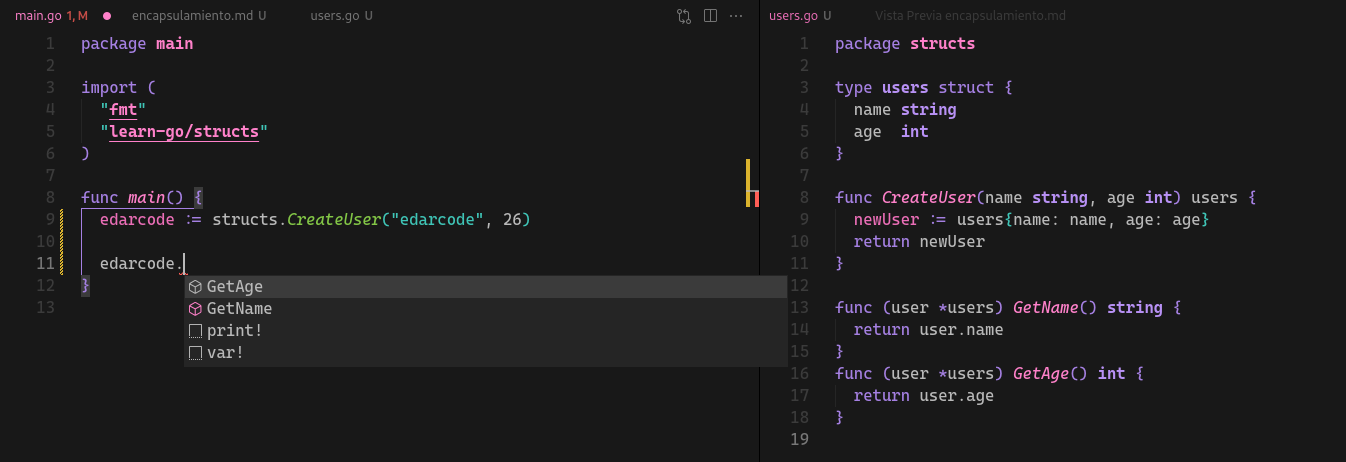
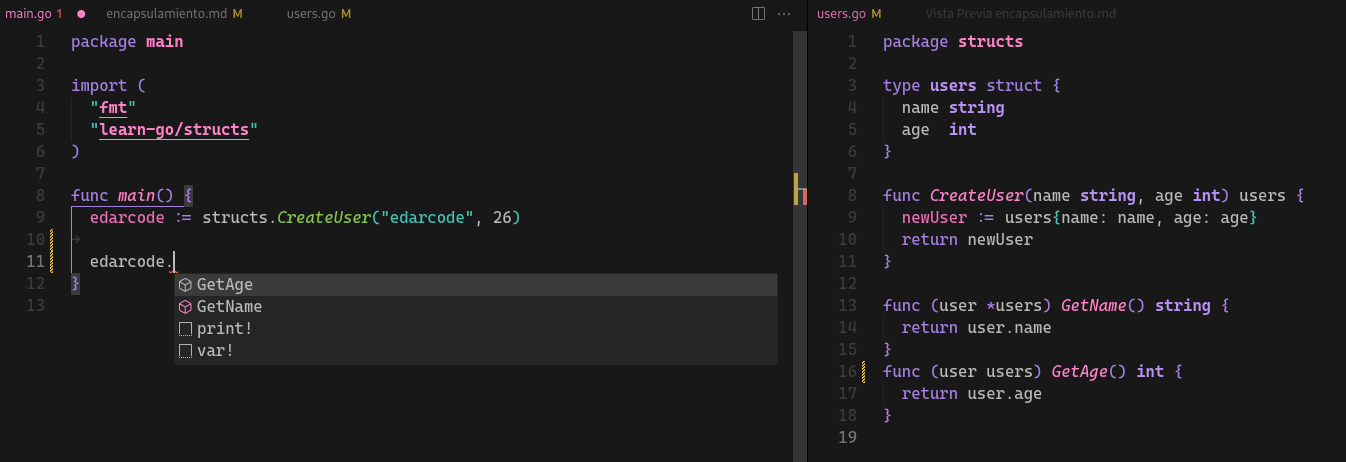
refactor encap...

diff --git a/structs/users.go b/structs/users.go
@@ -13,6 +13,6 @@ func CreateUser(name string, age int) users {
 func (user *users) GetName() string {
 	return user.name
 }
-func (user *users) GetAge() int {
+func (user users) GetAge() int {
 	return user.age
 }

diff --git a/doc/17-encapsulamiento/encapsulamiento.md b/doc/17-encapsulamiento/encapsulamiento.md
@@ -48,9 +48,11 @@ return user.age
 }
 ```
 
-Para consumir sería:
+Vista general:
 
 ![encapsulation](./assets/encapsulation.png)
+
+Conslusión:
 
 ```
 package main
@@ -61,8 +63,8 @@ import (
 )
 
 func main() {
-edarcode := structs.CreateUser("edarcode", 26)
-fmt.Println(edarcode.GetName()) // edarcode
-fmt.Println(edarcode.GetAge()) //26
+  edarcode := structs.CreateUser("edarcode", 26)
+  fmt.Println(edarcode.GetName()) // edarcode
+  fmt.Println(edarcode.GetAge()) //26
 }
 ```
